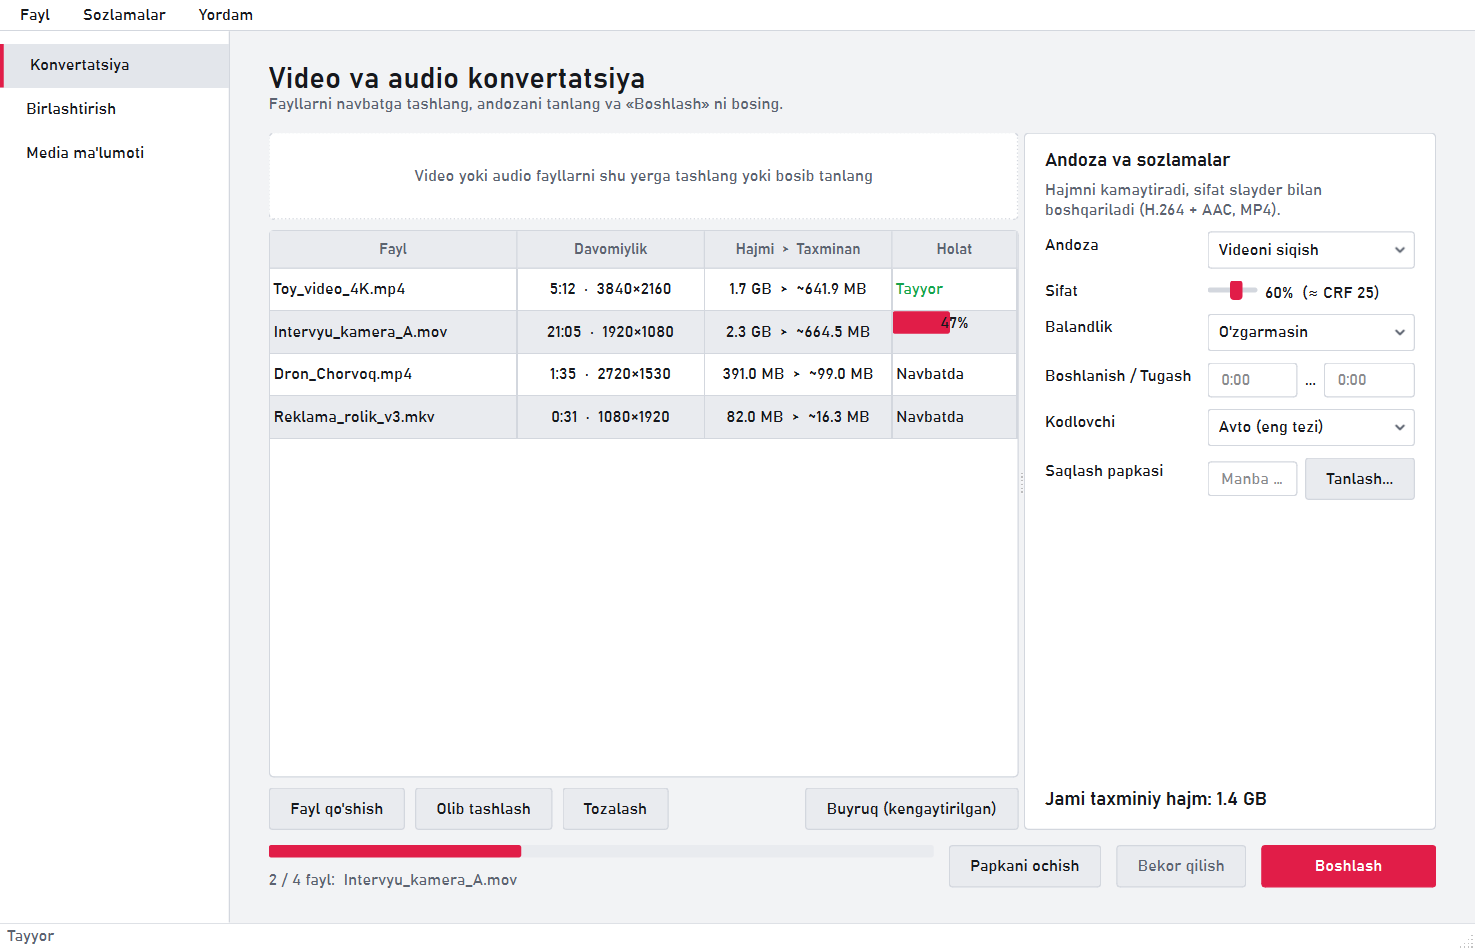
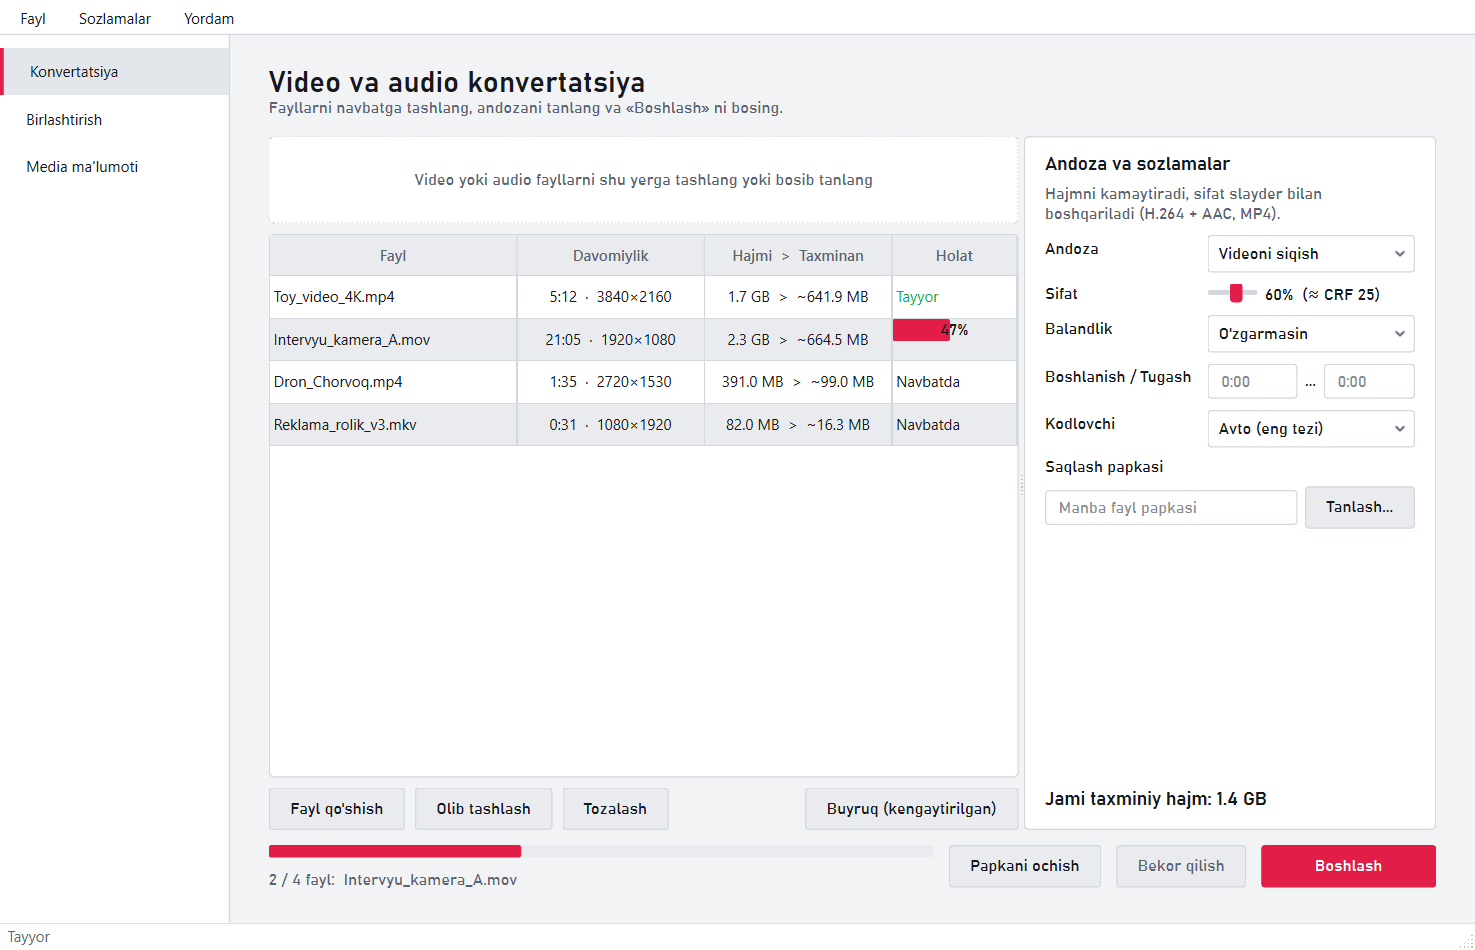
FFmpeg qobig'i v1.0.1

diff --git a/tests/test_deep_scenarios.py b/tests/test_deep_scenarios.py
@@ -1,0 +1,120 @@
+"""Chuqur ssenariylar: manba ustiga yozmaslik, chegaraviy vaqtlar, buzilgan sozlamalar, bekor qilish."""
+import json
+import os
+import sys
+import time
+from pathlib import Path
+
+import pytest
+
+sys.path.insert(0, str(Path(__file__).resolve().parents[1]))
+os.environ.setdefault("QT_QPA_PLATFORM", "offscreen")
+
+
+def _wait(qapp, cond, timeout=60):
+    t = time.time()
+    while not cond():
+        qapp.processEvents()
+        time.sleep(0.02)
+        if time.time() - t > timeout:
+            raise TimeoutError
+    qapp.processEvents()
+
+
+@pytest.fixture()
+def env(tmp_path, monkeypatch):
+    monkeypatch.setenv("APPDATA", str(tmp_path / "appdata"))
+    from PySide6.QtWidgets import QApplication
+    from uzkit import app as appmod, i18n
+    from uzkit.settings import Settings
+    appmod.META = appmod.load_meta()
+    appmod.SETTINGS = Settings(appmod.META["slug"])
+    qapp = QApplication.instance() or QApplication([])
+    i18n.set_language("uz")
+    import video_konvertor.window as W
+    msgs = []
+    for n in ("error", "warn", "info"):
+        monkeypatch.setattr(W, n, (lambda n: lambda *a, **k: msgs.append((n, a[1] if len(a) > 1 else "")))(n))
+    monkeypatch.setattr(W, "open_path", lambda p: None)
+    src = tmp_path / "Ўзбек 'video'"
+    src.mkdir()
+    return qapp, W, msgs, src
+
+
+def _gen(path, *args):
+    from video_konvertor import ffbin
+    r = ffbin.run([ffbin.ffmpeg(), "-y", "-loglevel", "error", *args, str(path)])
+    assert r.returncode == 0, r.stderr
+    return str(path)
+
+
+def test_preset_guards():
+    from video_konvertor import presets as P
+    from video_konvertor.media import MediaInfo
+    audio_only = MediaInfo(duration=3, has_audio=True, acodec="mp3")
+    with pytest.raises(ValueError, match="no_video"):
+        P.build_commands(P.Job(preset="noaudio"), "a.mp3", audio_only, "o.mp3")
+    clip = MediaInfo(duration=4, has_video=True, width=320, height=240)
+    with pytest.raises(ValueError, match="start_beyond"):
+        P.build_commands(P.Job(preset="trim", start=100), "a.mp4", clip, "o.mp4")
+
+
+def test_merge_never_overwrites_input(env):
+    qapp, W, msgs, src = env
+    a = _gen(src / "a ў.mp4", "-f", "lavfi", "-i", "testsrc=size=160x120:rate=10", "-t", "1",
+             "-c:v", "libopenh264", "-pix_fmt", "yuv420p")
+    b = _gen(src / "b.mp4", "-f", "lavfi", "-i", "testsrc=size=160x120:rate=10", "-t", "1",
+             "-c:v", "libopenh264", "-pix_fmt", "yuv420p")
+    w = W.MainWindow()
+    m = w.merge
+    m.add_files([a, b])
+    _wait(qapp, lambda: m.list.count() == 2)
+    size = os.path.getsize(a)
+    m.out.set_path(a)
+    m.go()
+    assert m.thread is None and msgs[-1][0] == "warn"
+    assert os.path.getsize(a) == size
+    out = src / "natija.mp4"
+    m.out.set_path(str(out))
+    m.go()
+    _wait(qapp, lambda: m.thread is None)
+    assert out.stat().st_size > 1000
+    w.close()
+
+
+def test_cancel_and_bad_out_dir(env, tmp_path):
+    qapp, W, msgs, src = env
+    v = _gen(src / "uzun.mp4", "-f", "lavfi", "-i", "testsrc=size=1280x720:rate=30", "-t", "40",
+             "-c:v", "libopenh264", "-pix_fmt", "yuv420p")
+    w = W.MainWindow()
+    pg = w.convert
+    pg.add_files([v])
+    _wait(qapp, lambda: pg.items[0].info is not None)
+    pg.out_dir.set_path(str(tmp_path / "Q" / "yoq" / "\0bad"))
+    pg.start_queue()
+    assert msgs and msgs[-1][0] == "error" and pg.thread is None
+    out = tmp_path / "out"
+    pg.out_dir.set_path(str(out))
+    pg.preset.setCurrentIndex(pg.preset.findData("compress"))
+    pg.start_queue()
+    pg.start_queue()                     # takroriy bosish: ikkinchi navbat ochilmaydi
+    time.sleep(0.6)
+    pg.cancel()
+    _wait(qapp, lambda: pg.thread is None, 30)
+    assert pg.items[0].status == "st_cancelled"
+    assert not out.exists() or not list(out.iterdir())
+    w.close()
+
+
+def test_corrupt_settings(env):
+    from uzkit import app as appmod
+    from uzkit.paths import data_dir
+    from uzkit.settings import Settings
+    qapp, W, msgs, src = env
+    (data_dir("video-konvertor") / "settings.json").write_text(json.dumps(
+        {"job": {"quality": "x", "preset": 5, "height": "big", "frame_every": "z", "copy": "no"},
+         "out_dir": 5, "encoder": [1]}), encoding="utf-8")
+    appmod.SETTINGS = Settings("video-konvertor")
+    w = W.MainWindow()
+    assert w.convert.quality.value() == 60
+    w.close()

diff --git a/video_konvertor/window.py b/video_konvertor/window.py
@@ -107,7 +107,8 @@ class QueueThread(QThread):
                 self.row_state.emit(row, "st_cancelled", "")
                 break
             except ValueError as ex:
-                key = {"no_video": "err_no_video", "no_audio": "err_no_audio"}.get(str(ex), "st_error")
+                key = {"no_video": "err_no_video", "no_audio": "err_no_audio",
+                       "start_beyond": "err_start_beyond"}.get(str(ex), "st_error")
                 self.row_state.emit(row, "st_error", tr(key))
                 bad += 1
                 continue
@@ -303,9 +304,14 @@ class ConvertPage(QWidget):
                               ("frame_every", tr("frame_every"), self.frame_every),
                               ("frame_fmt", tr("img_format"), self.frame_fmt),
                               ("time", f"{tr('start_time')} / {tr('end_time')}", self.w_time),
-                              ("encoder", tr("encoder"), self.encoder), ("out", tr("out_folder"), self.out_dir)):
+                              ("encoder", tr("encoder"), self.encoder)):
             self.form.addRow(label, w)
             self.rows[key] = w
+        # papka yo'li uzun: yorliq ustida, maydon butun kenglikda (tor panelda kesilib qolmasin)
+        self.form.addRow(QLabel(tr("out_folder")))
+        self.form.addRow(self.out_dir)
+        self.out_dir.setToolTip(tr("out_same"))
+        self.rows["out"] = self.out_dir
         card.add(self.desc)
         card.add(self.form)
         card.lay.addStretch(1)
@@ -371,7 +377,12 @@ class ConvertPage(QWidget):
     # ------------------------------------------------------------------ sozlamalar
     def _load_job(self):
         d = self.win.settings.get("job", {}) if self.win.settings else {}
-        j = P.Job(**{k: v for k, v in d.items() if k in P.Job.__dataclass_fields__})
+        if not isinstance(d, dict):
+            d = {}
+        base = P.Job()
+        # buzilgan sozlamalar: turi mos kelmagan qiymatlar standart bilan almashtiriladi
+        j = P.Job(**{k: v for k, v in d.items() if k in P.Job.__dataclass_fields__
+                     and type(v) is type(getattr(base, k)) or (k == "frame_every" and type(v) is int)})
         _set_data(self.preset, j.preset)
         self.quality.setValue(j.quality)
         _set_data(self.height_cb, j.height)
@@ -385,7 +396,8 @@ class ConvertPage(QWidget):
         _set_data(self.rotate, j.rotate)
         self.frame_every.setValue(j.frame_every)
         self.frame_fmt.setCurrentText(j.frame_fmt)
-        self.out_dir.set_path(self.win.settings.get("out_dir", "") if self.win.settings else "")
+        od = self.win.settings.get("out_dir", "") if self.win.settings else ""
+        self.out_dir.set_path(od if isinstance(od, str) else "")
 
     def current_job(self, strict: bool = False) -> P.Job:
         try:
@@ -448,6 +460,7 @@ class ConvertPage(QWidget):
 
         def done(lst):
             cur = self.win.settings.get("encoder", "auto") if self.win.settings else "auto"
+            cur = cur if isinstance(cur, str) else "auto"
             for e in lst:
                 self.encoder.addItem(e, e)
             _set_data(self.encoder, cur)
@@ -599,7 +612,11 @@ class ConvertPage(QWidget):
             return
         out_dir = self.out_dir.path()
         if out_dir:
-            os.makedirs(out_dir, exist_ok=True)
+            try:
+                os.makedirs(out_dir, exist_ok=True)
+            except (OSError, ValueError):
+                error(self, tr("err_out_dir", p=out_dir))
+                return
         if self.win.settings:
             self.win.settings.set("out_dir", out_dir)
         for r in rows:
@@ -861,6 +878,9 @@ class MergePage(QWidget):
             return
         if not Path(out).suffix:
             out += ".mp4"
+        if any(os.path.normcase(os.path.abspath(out)) == os.path.normcase(os.path.abspath(f)) for f in files):
+            warn(self, tr("merge_out_is_input"))      # manba fayl ustiga yozilmasin
+            return
         infos = [self.infos[f] for f in files]
         lst = os.path.join(tempfile.gettempdir(), "vk_concat_list.txt")
         Path(lst).write_text(P.concat_list_text(files), encoding="utf-8")

diff --git a/video_konvertor/strings.py b/video_konvertor/strings.py
@@ -137,6 +137,13 @@ STRINGS = {
                  "en": "Invalid time. Example: 90, 1:30 or 00:01:30.5"},
     "end_before_start": {"uz": "Tugash vaqti boshlanishdan katta bo'lishi kerak.",
                          "ru": "Конец должен быть больше начала.", "en": "End must be after start."},
+    "err_start_beyond": {"uz": "Boshlanish vaqti fayl davomiyligidan katta", "ru": "Начало позже конца файла",
+                         "en": "Start time is past the end of the file"},
+    "err_out_dir": {"uz": "Chiqish papkasini yaratib bo'lmadi: {p}", "ru": "Не удалось создать папку вывода: {p}",
+                    "en": "Could not create the output folder: {p}"},
+    "merge_out_is_input": {"uz": "Natija fayli birlashtirilayotgan fayllardan biri bilan bir xil. Boshqa nom tanlang.",
+                           "ru": "Файл результата совпадает с одним из исходных файлов. Выберите другое имя.",
+                           "en": "The output file is one of the files being merged. Choose another name."},
     "err_no_video": {"uz": "Faylda video yo'q", "ru": "В файле нет видео", "en": "The file has no video"},
     "err_no_audio": {"uz": "Faylda ovoz yo'q", "ru": "В файле нет звука", "en": "The file has no audio"},
     "err_probe": {"uz": "Faylni o'qib bo'lmadi", "ru": "Не удалось прочитать файл", "en": "Could not read the file"},

diff --git a/video_konvertor/presets.py b/video_konvertor/presets.py
@@ -221,10 +221,12 @@ def build_commands(job: Job, src: str, info: MediaInfo, out: str, ffmpeg: str = 
                    fallback_encoder: str = "libopenh264") -> List[List[str]]:
     """Bajariladigan buyruqlar ro'yxati: birinchisi asosiy, qolganlari xato bo'lsa zaxira variantlar."""
     p = job.preset
-    if p in VIDEO_PRESETS | {"gif", "frames"} and not info.has_video:
+    if p in VIDEO_PRESETS | {"gif", "frames", "noaudio"} and not info.has_video:
         raise ValueError("no_video")
     if p == "audio" and not info.has_audio:
         raise ValueError("no_audio")
+    if job.start and info.duration and job.start >= info.duration:
+        raise ValueError("start_beyond")
     pre, post = _time_args(job, info)
     head = [ffmpeg, "-hide_banner", "-y", "-nostdin", "-progress", "pipe:1", "-nostats", "-loglevel", "error"]
     inp = pre + ["-i", src]

diff --git a/uzkit/settings.py b/uzkit/settings.py
@@ -18,6 +18,8 @@ class Settings:
         try:
             if self.path.exists():
                 self._data = json.loads(self.path.read_text(encoding="utf-8"))
+                if not isinstance(self._data, dict):
+                    raise ValueError("settings root is not an object")
         except Exception:
             # Buzilgan faylni zaxiraga olib, toza boshlaymiz
             try:

diff --git a/README.md b/README.md
@@ -4,8 +4,8 @@
 <p align="center"><b>FFmpeg Shell</b> · Оболочка FFmpeg</p>
 
 <p align="center">
-  <a href="https://github.com/eduhakimov/video-konvertor/releases/latest/download/FFmpegQobigi-1.0.0-portable.zip"><img src="https://img.shields.io/badge/Yuklab_olish-FFmpegQobigi--1.0.0--portable.zip-2ea44f?style=for-the-badge&logo=windows" alt="download"></a><br>
-  <img src="https://img.shields.io/badge/version-1.0.0-blue" alt="version">
+  <a href="https://github.com/eduhakimov/video-konvertor/releases/latest/download/FFmpegQobigi-1.0.1-portable.zip"><img src="https://img.shields.io/badge/Yuklab_olish-FFmpegQobigi--1.0.1--portable.zip-2ea44f?style=for-the-badge&logo=windows" alt="download"></a><br>
+  <img src="https://img.shields.io/badge/version-1.0.1-blue" alt="version">
   <img src="https://img.shields.io/badge/Windows-10%20%7C%2011-0078D6?logo=windows" alt="windows">
   <img src="https://img.shields.io/badge/til-UZ%20%7C%20RU%20%7C%20EN-orange" alt="languages">
   <img src="https://img.shields.io/badge/license-All%20rights%20reserved-red" alt="license">
@@ -38,7 +38,7 @@ FFmpeg uchun qulay oyna: videoni siqish, Telegram, Instagram Reels, YouTube va W
 
 ## O'rnatish
 
-1. [**FFmpegQobigi-1.0.0-portable.zip**](https://github.com/eduhakimov/video-konvertor/releases/latest/download/FFmpegQobigi-1.0.0-portable.zip) faylini yuklab oling.
+1. [**FFmpegQobigi-1.0.1-portable.zip**](https://github.com/eduhakimov/video-konvertor/releases/latest/download/FFmpegQobigi-1.0.1-portable.zip) faylini yuklab oling.
 2. Arxivni ochib, ichidagi FFmpegQobigi.exe ni ishga tushiring.
 3. Windows SmartScreen ogohlantirsa: **Batafsil → Baribir ishga tushirish**.
 
